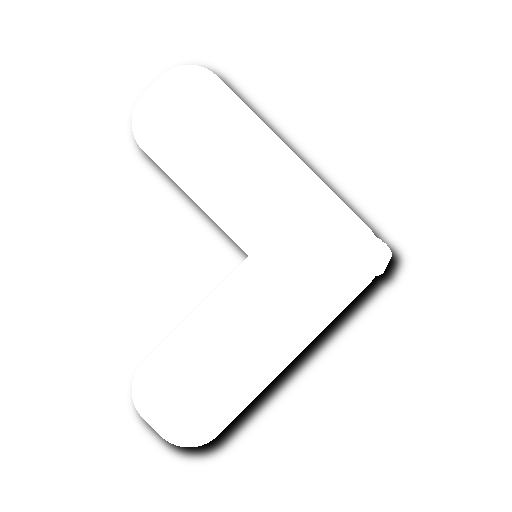
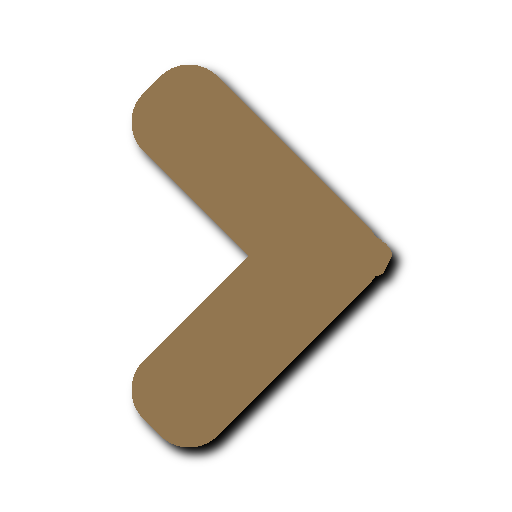
Final

Changed region(s): [[0.25, 0.125, 0.7812, 0.875]]

diff --git a/cefo_juanjdavid/css/style.css b/cefo_juanjdavid/css/style.css
@@ -20,12 +20,12 @@ li{
 .i{
 	position:absolute;
 	bottom:24px;
-	left:42%;
+	left:40%;
 }
 .d{
 	position:absolute;
 	bottom:24px;
-	right:42%;
+	right:40%;
 }
 .small{
 	font-variant:small-caps;
@@ -143,9 +143,10 @@ table img{
 	display:inline-block;
 	margin:20px;
 	padding:10px;
-	
-	color:white;
-	text-shadow:1px 1px 1px black;
+	color:#927650;
+	font-weight: bold;
+	font-variant: small-caps;
+	text-shadow: 1px 1px 1px black;
 }
 .izquierda{
 	float: left;
@@ -226,6 +227,22 @@ table{
  .most td,  .most th{
 	padding: 10px;
 }
+table.most  tr{
+	background-color:#E2E7E1;
+	
+}
+table.most tr:nth-of-type(even){
+	background-color:#D5DED9;
+}
+table.most tr:hover{
+	background-color:#CBD3CF;
+	
+}
+table.most th{
+	color:#7A6A53;
+	background-color:#99B2B7;
+	
+}
 .cont{
 	padding-top:20px;
 	padding-bottom:20px;
@@ -250,8 +267,11 @@ table{
 .det{
 	font-variant:small-caps;
 	display:inline-block;
-	width:200px;
-	
+	width:150px;
+	margin:5px 50px 5px 100px;
+}
+.det1{
+	font-variant:small-caps;
 	margin:5px 50px 5px 100px;
 }
 .point{
@@ -347,20 +367,4 @@ h2.det{
 }
 .noms{
 	color:yellow;
-}
-table tr{
-	background-color:#E2E7E1;
-	
-}
-table tr:nth-of-type(even){
-	background-color:#D5DED9;
-}
-table tr:hover{
-	background-color:#CBD3CF;
-	
-}
-table th{
-	color:#7A6A53;
-	background-color:#99B2B7;
-	
 }

diff --git a/cefo_juanjdavid/application/views/pages/privacitat.php b/cefo_juanjdavid/application/views/pages/privacitat.php
@@ -1,24 +1,12 @@
-<div class="content">
-
-
-      <div class="container">
-        <h1>Politica de privacitat i avis legal</h1><br><br><br><br><br>
-        <p class="bien">A través de este sitio web no se recaban datos de carácter personal de los usuarios sin su 
-        conocimiento, ni se ceden a terceros.
-Con la finalidad de ofrecerle el mejor servicio y con el objeto de facilitar el uso, se analizan el número de páginas visitadas, el número de visitas, así como la actividad de los visitantes y su frecuencia de utilización. A estos efectos,utilizamos la información estadística elaborada por el Proveedor de Servicios de Internet.</p>
+	<div class="content">
+        <h1><?php echo $titol1?></h1><br><br><br><br>
+        <p class="bien"> <?php echo $cont1?></p>
         
-      </div>
     </div>
-
+    
     <div class="content2">
-   
-       <h3> Aviso legal:</h3><br><br>
+       <h3> <?php echo $titol?></h3><br><br>
+		<p class="bien"><?php echo $cont?></p>   
+	</div>
 
-<p class="bien">Este portal, , con NIF , domicilio en la , y teléfono , está constituido por los sitios web asociados a los dominios .
- Propiedad intelectual e industrial
-
-El diseño del portal y sus códigos fuente, así como los logos, marcas y demás signos distintivos que aparecen en el mismo pertenecen a la y están protegidos por los correspondientes derechos de propiedad intelectual e industrial. 
-  </p>   </div>
-
-      <hr>
-</div>
+    

diff --git a/cefo_juanjdavid/application/controllers/Pages.php b/cefo_juanjdavid/application/controllers/Pages.php
@@ -20,6 +20,30 @@ class Pages extends CI_Controller {
 	}
 	public function privacidad(){
 		
+		if(!$fp=fopen("txt/avislegal.txt","r"))
+			show_error('No existeix el fitxer <b>txt/avislegal.txt</b>',404,'Error al accedir al fitxer');
+			
+		$titol=fgets($fp);
+		$linees='';
+		while (!feof($fp)){
+			$linees.=fgets($fp);
+		}
+		fclose($fp);
+		
+		if(!$fp1=fopen("txt/politiques.txt","r"))
+			show_error('No existeix el fitxer <b>txt/politiques.txt</b>',404,'Error al accedir al fitxer');
+				
+			$titol1=fgets($fp1);
+			$linees1='';
+			while (!feof($fp1)){
+				$linees1.=fgets($fp1);
+			}
+		fclose($fp1);
+		
+		$data['titol']=$titol;
+		$data['cont']=$linees;
+		$data['titol1']=$titol1;
+		$data['cont1']=$linees1;
 		$data['usuario']=Login::getUsuario();
 		$this->load->view('templates/header', $data);
 		$this->load->view('pages/privacitat', $data);

diff --git a/cefo_juanjdavid/application/views/cursos/detall.php b/cefo_juanjdavid/application/views/cursos/detall.php
@@ -1,7 +1,7 @@
 
 
 	<div class="cont">
-			<h2 class="det"><?php echo $curso[0]->nom;?></h2><br/><br/><br/>
+			<h2 class="det1"><?php echo $curso[0]->nom;?></h2><br/><br/><br/>
 		<table >
 			<tr>
 				<td><label class="det">Codi del curs:</label></td><td><?php echo $curso[0]->codi;?></span><br/>
